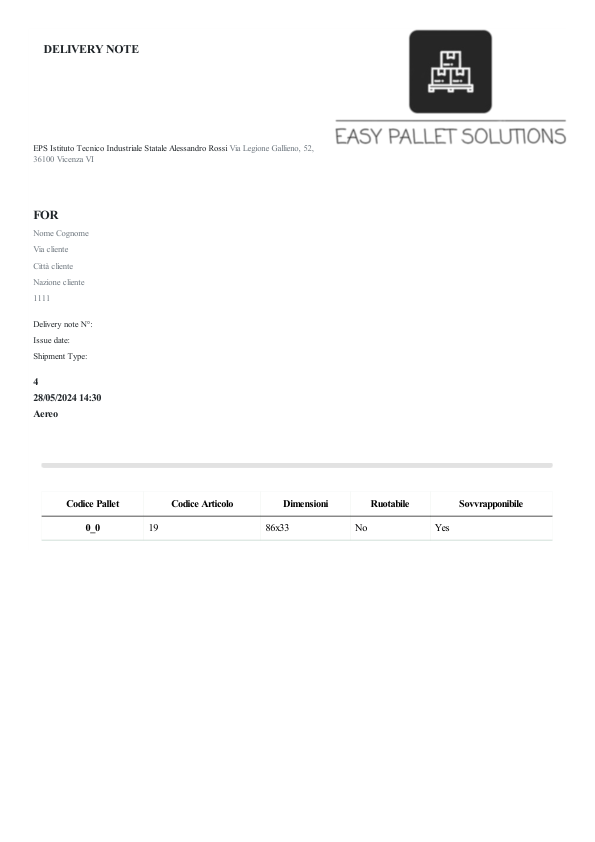
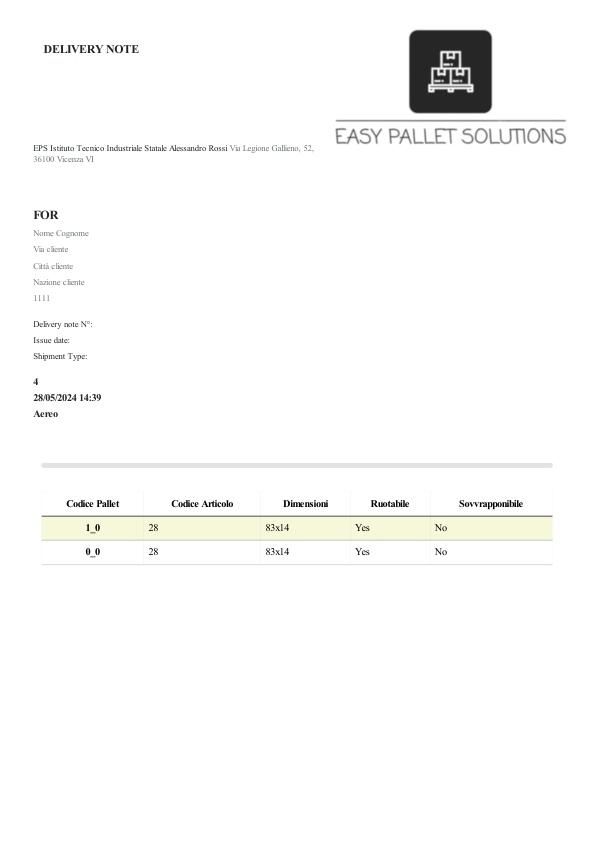
test

Changed region(s): [[0.0605, 0.5867, 0.9378, 0.6793]]

diff --git a/stable/template_bolla.html b/stable/template_bolla.html
@@ -65,12 +65,19 @@
         <tbody id="tabella_dinamica">
             <tr id="colonna_dinamica">
             </tr id="end_of_colonna_dinamica">
+<tr id="colonna_dinamica" style="background-color:#f7f7da;">
+<th scope="row" style="font-family:'Serif'">1_0</th>
+<td style="font-family:'Serif'">28</td>
+<td style="font-family:'Serif'">83x14</td>
+<td style="font-family:'Serif'">Yes</td>
+<td style="font-family:'Serif'">No</td>
+</tr id="end_of_colonna_dinamica">
 <tr id="colonna_dinamica">
 <th scope="row" style="font-family:'Serif'">0_0</th>
-<td style="font-family:'Serif'">19</td>
-<td style="font-family:'Serif'">86x33</td>
-<td style="font-family:'Serif'">No</td>
+<td style="font-family:'Serif'">28</td>
+<td style="font-family:'Serif'">83x14</td>
 <td style="font-family:'Serif'">Yes</td>
+<td style="font-family:'Serif'">No</td>
 </tr id="end_of_colonna_dinamica">
         </tbody id="end_of_tabella_dinamica">
         </table>
